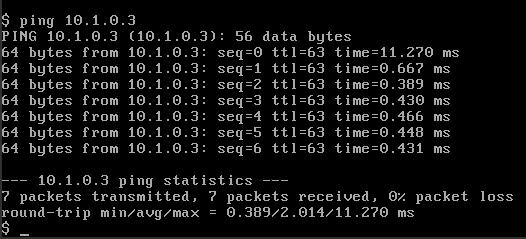
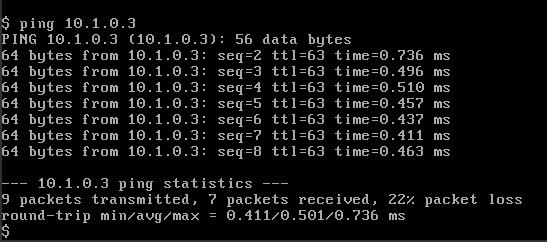
Additions to DF2

Changed region(s): [[0.0, 0.0586, 0.8821, 0.6736], [0.0, 0.7322, 0.9734, 0.9958]]

diff --git a/_posts/2015-05-11-dragonflow-2.md b/_posts/2015-05-11-dragonflow-2.md
@@ -73,7 +73,7 @@ Now lets try to ping from VM2 (10.2.0.3) to VM1 (10.1.0.3) and see what happens.
 
 <img src="https://raw.githubusercontent.com/GalSagie/GalSagie.github.io/master/public/img/ping.jpeg" />
 
-We can see that the first ping latency is substantially bigger than the rest, this is because the first packet is matched and sent to the controller, the controller checks the route validity (if there is a route between the two VM’s) and then configure two flows which represent the two sides of the connection.
+We can see that the first ping latency is abit bigger than the rest, this is because the first packet is matched and sent to the controller, the controller checks the route validity (if there is a route between the two VM’s) and then configure two flows which represent the two sides of the connection.
 
 Before looking at the newly configured flows by the controller, lets understand how the packet is first matched and sent to the controller.
 
@@ -98,7 +98,7 @@ If we now look at the configured flows, we can see two new flows
 
 These two flows are representing the two directions of the connection between the two VM’s by matching the source and destination, the action replaces the source/destination MAC address to represent the router interface address and the destination VM MAC .
 
-Since we are in a single node setup we can see that we just output the packet to the correct port after altering the MAC address, however in multi node setup Dragonflow send the packet to br-tun and the two connection flows are installed at each of the different compute nodes. (only in case the VM’s are located on different compute nodes)
+Since we are in a single node setup we can see that we just output the packet to the correct port after altering the MAC address, however in multi node setup Dragonflow send the packet to br-tun, modify to the correct tunnel-id and the two connection flows are installed at each of the different compute nodes. (only in case the VM’s are located on different compute nodes)
 
 These flows are configured with idle_timeout, this means that after a given number of seconds of no matching action they will be deleted.
 This parameter including the hard_timeout are configurable in Dragonflow.
